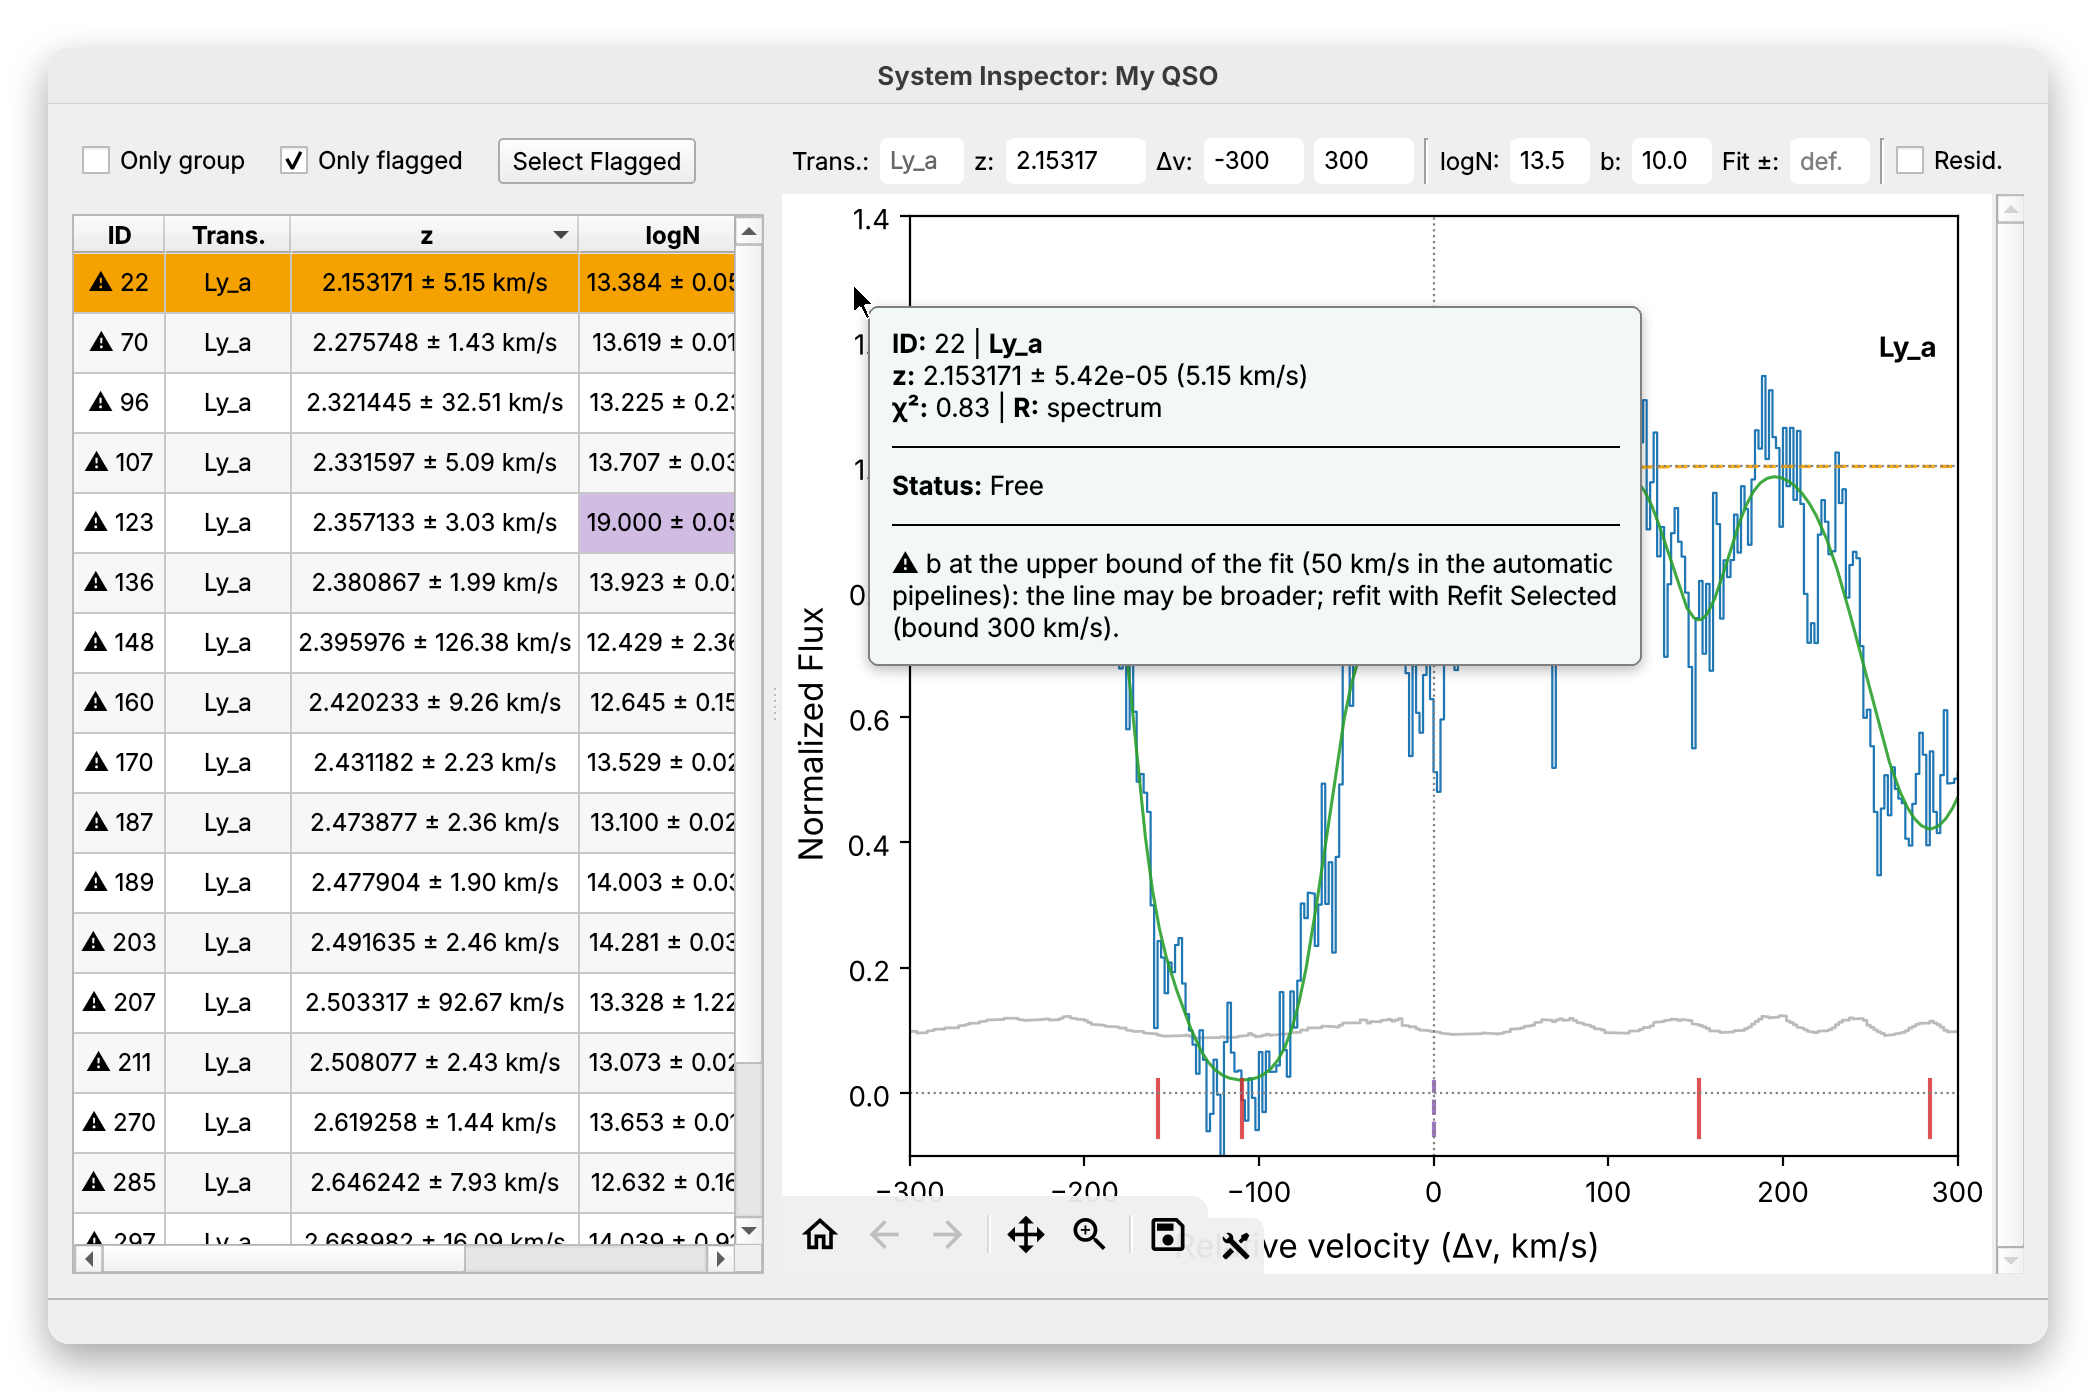
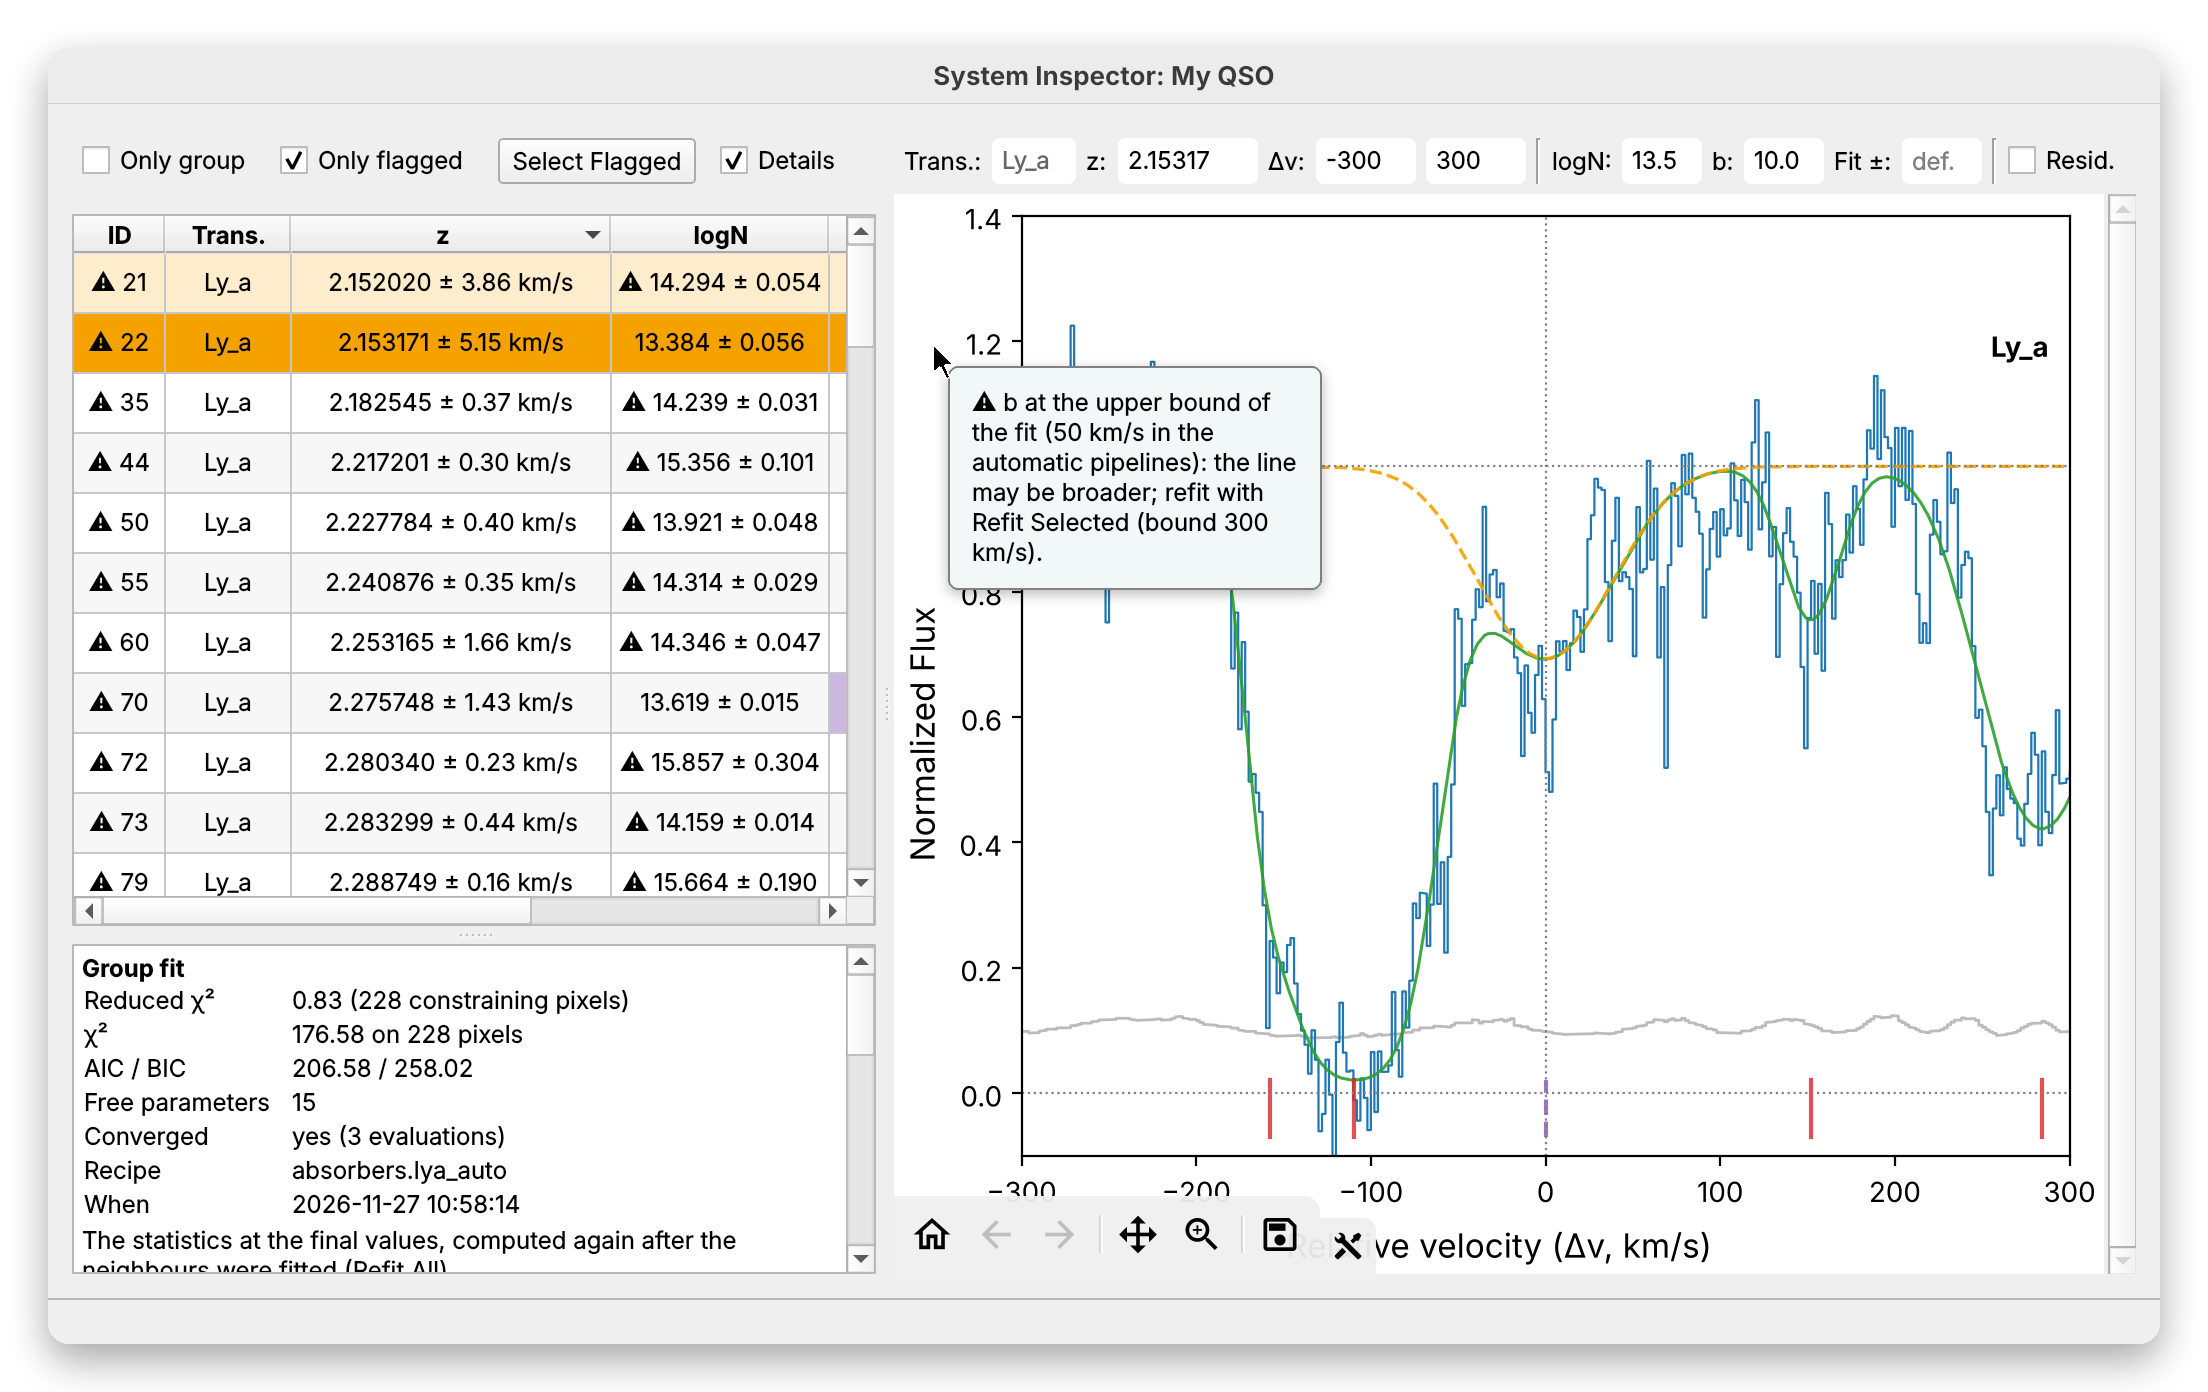
Phase 7, PR 7d.9: the scenes of the Inspector rebuilt; the panel in one column when narrow
The scenes showed the panel cramped in two columns at their size: below
640 pixels it lays its sections one after the other. The tooltip of a cell
is rich text, so that Qt wraps a long message; the panel says what to do
when nothing is selected.

Claude-Session: https://claude.ai/code/session_01N95cbKMbAbX1Wmu9iSUsQh

diff --git a/astrocook/gui/inspector_details.py b/astrocook/gui/inspector_details.py
@@ -39,6 +39,12 @@ from ..fitting.component_flags import (
     SATURATED_TAU, TELLURIC_DEPTH, UNRESOLVED_RATIO, FitPixels, flag_quantities)
 from .inspector_table import C_KMS, dz_kms, flag_cue, pretty_expression
 
+#: The width of the panel (pixels) from which the sections are in two columns
+TWO_COLUMNS_WIDTH = 640
+
+#: The text of the panel when no component is selected
+NOTHING_SELECTED = "Select a component in the table to see its details."
+
 #: The anchor of a member of the group, followed by its uuid
 MEMBER_SCHEME = "component"
 
@@ -256,7 +262,10 @@ class DetailsPanel(QWidget):
         self.browser.setSizePolicy(QSizePolicy.Policy.Expanding, QSizePolicy.Policy.Expanding)
         layout.addWidget(self.browser, 1)
         self._comp: Optional[ComponentData] = None
+        self._parts: List[str] = []
+        self._has_group = False
         self._expanded = True
+        self.browser.setHtml(f"<p style='color: gray'>{NOTHING_SELECTED}</p>")
 
     def set_expanded(self, expanded: bool) -> None:
         """Show or hide the panel (hidden, the splitter gives its height to
@@ -294,18 +303,37 @@ class DetailsPanel(QWidget):
         """Show the details of ``comp`` (None: nothing selected)."""
         self._comp = comp
         if comp is None:
-            self.browser.setHtml("<p>Select a component in the table.</p>")
+            self._parts = []
+            self.browser.setHtml(f"<p style='color: gray'>{NOTHING_SELECTED}</p>")
             return
-        parts = self.sections(comp, components, constraints or {}, pixels, param)
-        # Two columns, to use the width of the plot: the group on the left,
-        # the component and the parameter on the right
-        group = parts[0] if comp.fit is not None or comp.chi2 is not None else ""
-        rest = parts[1:] if group else parts
-        cells = [p for p in (group, "".join(rest)) if p]
-        row = "".join(f"<td valign='top' style='padding-right: 18px' width='{100 // len(cells)}%'>"
-                      f"{c}</td>" for c in cells)
-        self.browser.setHtml("<div style='font-size: 12px'><table width='100%'><tr>"
-                             f"{row}</tr></table></div>")
+        self._parts = self.sections(comp, components, constraints or {}, pixels, param)
+        self._has_group = comp.fit is not None or comp.chi2 is not None
+        self._render()
+
+    def _two_columns(self) -> bool:
+        return self.browser.viewport().width() >= TWO_COLUMNS_WIDTH
+
+    def _render(self) -> None:
+        """Lay the sections out: in two columns when the panel is wide (the
+        group on the left, the component and the parameter on the right),
+        else one after the other."""
+        parts = self._parts
+        self._columns = self._two_columns()
+        if self._columns and self._has_group and len(parts) > 1:
+            cells = [parts[0], "".join(parts[1:])]
+            row = "".join(f"<td valign='top' style='padding-right: 18px' width='50%'>{c}</td>"
+                          for c in cells)
+            body = f"<table width='100%'><tr>{row}</tr></table>"
+        else:
+            body = "<hr>".join(parts)
+        self.browser.setHtml(f"<div style='font-size: 12px'>{body}</div>")
+
+    def resizeEvent(self, event) -> None:
+        super().resizeEvent(event)
+        # Laid out again only when the number of columns changes
+        if (self._comp is not None and self._parts
+                and self._two_columns() != getattr(self, '_columns', None)):
+            self._render()
 
     def text(self) -> str:
         """The text shown (for the tests)."""

diff --git a/astrocook/gui/inspector_table.py b/astrocook/gui/inspector_table.py
@@ -144,10 +144,12 @@ def tooltip_line(comp, attr: str, constraint, components) -> str:
     if attr not in ERR_MAP and attr != 'id':
         messages = []
     if len(messages) == 1:
-        return f"\u26a0 {messages[0]}"
+        # Rich text, so that Qt wraps a long message instead of running off
+        # the screen
+        return f"<qt>\u26a0 {html.escape(messages[0])}</qt>"
     if messages:
         names = ", ".join(f.replace('_', ' ') for f in (getattr(comp, 'flags', ()) or ()))
-        return f"\u26a0 {len(messages)} warnings ({names}): see Details"
+        return f"<qt>\u26a0 {len(messages)} warnings ({html.escape(names)}): see Details</qt>"
     if attr not in ERR_MAP:
         return ""
     target = getattr(constraint, 'target_uuid', None)

diff --git a/tests/test_inspector_details.py b/tests/test_inspector_details.py
@@ -175,3 +175,18 @@ def test_the_panel_collapses(inspector):
     # Not updated while collapsed; updated when expanded again
     inspector.details_cb.setChecked(True)
     assert "ID 1" in inspector.details.text()
+
+
+def test_one_column_when_narrow(qapp):
+    from astrocook.gui.inspector_details import NOTHING_SELECTED, TWO_COLUMNS_WIDTH
+    a, b = _pair()
+    panel = DetailsPanel()
+    assert NOTHING_SELECTED in panel.text()
+    panel.resize(TWO_COLUMNS_WIDTH + 200, 300)
+    panel.show()
+    panel.show_component(a, [a, b])
+    assert "<td" in panel.browser.toHtml() and panel._columns
+    panel.resize(TWO_COLUMNS_WIDTH // 2, 300)
+    qapp.processEvents()
+    assert not panel._columns and "Group fit" in panel.text()
+    panel.close()

diff --git a/tests/test_gui_structure.py b/tests/test_gui_structure.py
@@ -94,6 +94,8 @@ MAIN_WINDOW |= {'_set_appearance', '_set_toolbar_visible', '_restore_view_settin
                 '_align_combo_labels'}
 #: ... and the status bar (phase 5-bis)
 MAIN_WINDOW |= {'_setup_status_bar', 'show_status', '_report_recipe_outcome', '_toolbar_room'}
+#: ... and the window of the messages of a recipe (phase 7, PR 7d.9)
+MAIN_WINDOW |= {'_result_parent'}
 #: ... and the files: opened in the background, recent, the window geometry
 #: (phase 5-bis)
 MAIN_WINDOW |= {'_load_session', 'open_files', '_open_files_in_background', '_recent_files',

diff --git a/ROADMAP.md b/ROADMAP.md
@@ -601,7 +601,7 @@ Agreed with Guido at the start of the MCP pilot (October 2026); scope and plan a
 | 7d.6 | F59: the system column at R = 8900 (the cause measured: unresolved saturation or the convolution), with the flags of 7d.2 | Opus | half a day | |
 | 7d.7 | F156: upper limits on the column of a species not detected, as a recipe and in the methods text (details below, "Upper limits"); stored, shown as rows of their own in the System Inspector and in the panel of 7d.9 | Opus | half a day to a day | |
 | 7d.8 | A tabulated instrumental profile (LSF) next to the Gaussian one (section 2; UVES and ESPRESSO), as a function of the wavelength (details below, "The tabulated LSF"), with its plot in the panel of 7d.9 | Opus | 1 day | |
-| 7d.9 | The Details panel of the System Inspector (details below, "The Details panel"): the statistics of each group fit stored (chi2, AIC, BIC, pixels, free parameters, convergence, `nfev`, recipe) and exposed by the MCP; a panel that follows the selection, with the sections group, component (with the quantities of the criteria of the flags) and parameter; the tooltip reduced to one line. By the rule of scope a 7-bis matter, kept in 7d because the flags, the limits and the LSF of the block are shown in it (Guido, 26 November 2026) | Opus | 1 day | done, PR #840 (branch `claude/7d9-details-panel`, 27 November 2026): `FitRecord` (`core/structures.py`: chi2 and n_pix on the pixels of the fit, n_free, AIC, BIC by `information_criteria`, moved to `fitting/fit_record.py`; the reduced chi2 of the errors and its constraining pixels; members, bounds of the free parameters, converged, nfev, max_nfev, the message of the optimizer, recipe, time, `final`), made by `VoigtFitter.fit` and by `evaluate_uncertainties` (`final`, the statistics at the final values of `refit_all`, the convergence of the fit kept); held *by reference* by each component fitted (`ComponentData.fit`, not compared), so that it survives the merges of the local fits of `refit_all` with no bookkeeping, cleared with the flags when a parameter is edited; the recipe from a context variable set by `typed_recipe` (the outermost recipe). `ComponentData.chi2` kept (the archive column, `chi2r` of the MCP, the median reduced chi2 of the benchmark): the plan said "instead of copies", kept for compatibility, equal to `chi2_reduced` of the record. Archive: `<name>_fit_records.json` by `io/archive_data.py` (each record once, the record of each component by uuid; `ArchiveDatum.get`/`put` for a datum that does not live in the metadata). MCP: `components_list` gives `fit_id` per component and `fits` (one entry per fit of the components listed). GUI: `gui/inspector_details.py`, below the table in a vertical splitter, shown or hidden by a box "Details" at the right of the boxes above the table (a header with a button took a row and much width, Guido, 27 November 2026) (not below the velocity plot, as the plan said: the table scrolls, so the panel only hides rows, while the plot, which does not scroll, would be squeezed and redrawn at each change of the height of the panel; Guido, 27 November 2026, to reconsider if the plot gets a real scroll, F178), its state remembered in the settings, two columns (group on the left; component and parameter on the right), the members clickable; the criteria of the flags by `flag_quantities` on the whole spectrum (`spectrum_pixels`; the fit takes the lines in its pixels: said in the panel); the tooltip of a cell one line (`tooltip_line`). Room left: `DetailsPanel.sections` lists the sections (7d.7 adds the limits), the plot of the LSF goes at the end of the component section (7d.8). No number changes by construction (the record is computed from what the fit already returns; `test_fit_records.py`). F177 recorded (a reduced chi2 of 0 for a fit without errors). Fixed along the way (reported by Guido): the messages of the result of a recipe (its warnings, e.g. the flags of a refit, and its errors) opened on the main window, which came to the front over the System Inspector; they open on the window that asked for the recipe (`_result_parent` of `gui/main_recipes.py`). Screenshots of the Inspector not rebuilt: the private data are not reachable from the session (adding `astrocook-data` was refused); one screenshot on J0103-1305 of the tests shown to Guido |
+| 7d.9 | The Details panel of the System Inspector (details below, "The Details panel"): the statistics of each group fit stored (chi2, AIC, BIC, pixels, free parameters, convergence, `nfev`, recipe) and exposed by the MCP; a panel that follows the selection, with the sections group, component (with the quantities of the criteria of the flags) and parameter; the tooltip reduced to one line. By the rule of scope a 7-bis matter, kept in 7d because the flags, the limits and the LSF of the block are shown in it (Guido, 26 November 2026) | Opus | 1 day | done, PR #840 (branch `claude/7d9-details-panel`, 27 November 2026): `FitRecord` (`core/structures.py`: chi2 and n_pix on the pixels of the fit, n_free, AIC, BIC by `information_criteria`, moved to `fitting/fit_record.py`; the reduced chi2 of the errors and its constraining pixels; members, bounds of the free parameters, converged, nfev, max_nfev, the message of the optimizer, recipe, time, `final`), made by `VoigtFitter.fit` and by `evaluate_uncertainties` (`final`, the statistics at the final values of `refit_all`, the convergence of the fit kept); held *by reference* by each component fitted (`ComponentData.fit`, not compared), so that it survives the merges of the local fits of `refit_all` with no bookkeeping, cleared with the flags when a parameter is edited; the recipe from a context variable set by `typed_recipe` (the outermost recipe). `ComponentData.chi2` kept (the archive column, `chi2r` of the MCP, the median reduced chi2 of the benchmark): the plan said "instead of copies", kept for compatibility, equal to `chi2_reduced` of the record. Archive: `<name>_fit_records.json` by `io/archive_data.py` (each record once, the record of each component by uuid; `ArchiveDatum.get`/`put` for a datum that does not live in the metadata). MCP: `components_list` gives `fit_id` per component and `fits` (one entry per fit of the components listed). GUI: `gui/inspector_details.py`, below the table in a vertical splitter, shown or hidden by a box "Details" at the right of the boxes above the table (a header with a button took a row and much width, Guido, 27 November 2026) (not below the velocity plot, as the plan said: the table scrolls, so the panel only hides rows, while the plot, which does not scroll, would be squeezed and redrawn at each change of the height of the panel; Guido, 27 November 2026, to reconsider if the plot gets a real scroll, F178), its state remembered in the settings, two columns (group on the left; component and parameter on the right), the members clickable; the criteria of the flags by `flag_quantities` on the whole spectrum (`spectrum_pixels`; the fit takes the lines in its pixels: said in the panel); the tooltip of a cell one line (`tooltip_line`). Room left: `DetailsPanel.sections` lists the sections (7d.7 adds the limits), the plot of the LSF goes at the end of the component section (7d.8). No number changes by construction (the record is computed from what the fit already returns; `test_fit_records.py`). F177 recorded (a reduced chi2 of 0 for a fit without errors). Fixed along the way (reported by Guido): the messages of the result of a recipe (its warnings, e.g. the flags of a refit, and its errors) opened on the main window, which came to the front over the System Inspector; they open on the window that asked for the recipe (`_result_parent` of `gui/main_recipes.py`). Screenshots: the five scenes with the Inspector rebuilt (`absorbers_system_inspector`, `absorbers_linking`, `absorbers_flags`, `absorbers_no_continuum`, `getting_started_plot_colours`, with `astrocook-data` attached on Guido's request); they showed the panel cramped in two columns at the size of the scenes, so it lays its sections in one column below 640 pixels of width, and the one line of the tooltip is rich text, which Qt wraps |
 
 *Order of 7d* (Guido, 26 November 2026, at the planning of the block): 7d.2, 7d.9, 7d.7, 7d.8, 7d.6; the second lane of the phase, one PR open at a time. Each PR measures the question it answers (the paragraph "Benchmark in development" below), not the whole benchmark. The details of the GUI (the place of the panel, of the limits) can be refined on the PRs.
 
